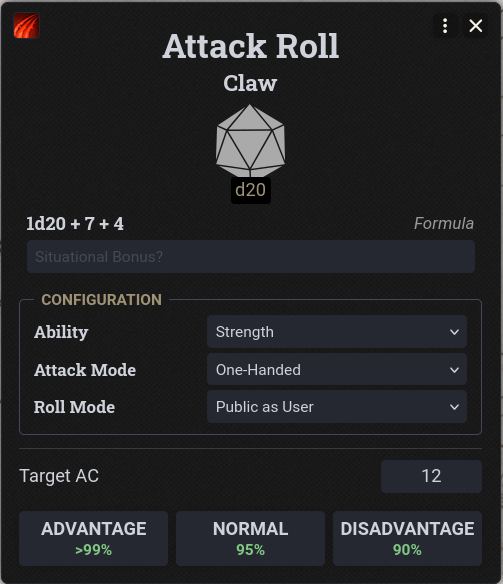
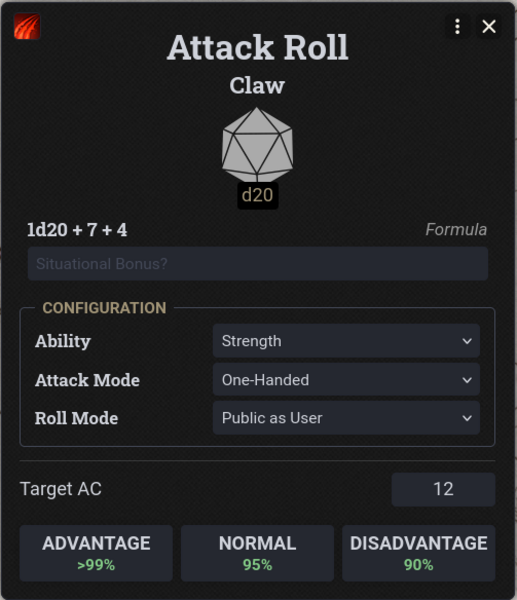
Update screenshots

diff --git a/styles/calculated-risk.css b/styles/calculated-risk.css
@@ -1,17 +1,17 @@
 :root,
 .theme-light {
-  --odds-on-likely: #2e7d32;
-  --odds-on-risky: #9a5b00;
-  --odds-on-longshot: #b3261e;
+  --calculated-risk-likely: #2e7d32;
+  --calculated-risk-risky: #9a5b00;
+  --calculated-risk-longshot: #b3261e;
 }
 
 .theme-dark {
-  --odds-on-likely: #81c784;
-  --odds-on-risky: #f2b84b;
-  --odds-on-longshot: #f28b82;
+  --calculated-risk-likely: #81c784;
+  --calculated-risk-risky: #f2b84b;
+  --calculated-risk-longshot: #f28b82;
 }
 
-.odds-on {
+.calculated-risk {
   display: flex;
   flex-direction: column;
   gap: 4px;
@@ -20,47 +20,47 @@
   border-top: 1px solid color-mix(in srgb, currentColor 18%, transparent);
 }
 
-.odds-on .odds-on-row {
+.calculated-risk .calculated-risk-row {
   display: flex;
   align-items: center;
   gap: 8px;
   min-height: 28px;
 }
 
-.odds-on .odds-on-label {
+.calculated-risk .calculated-risk-label {
   flex: 1;
   margin: 0;
 }
 
-.odds-on input.odds-on-target {
+.calculated-risk input.calculated-risk-target {
   flex: 0 0 4.5rem;
   width: 4.5rem;
   text-align: center;
 }
 
-.odds-on .odds-on-token,
-.odds-on .odds-on-manual {
+.calculated-risk .calculated-risk-token,
+.calculated-risk .calculated-risk-manual {
   display: none;
 }
 
-.odds-on.token-mode input.odds-on-target {
+.calculated-risk.token-mode input.calculated-risk-target {
   display: none;
 }
 
-.odds-on.token-mode .odds-on-token {
+.calculated-risk.token-mode .calculated-risk-token {
   display: flex;
   align-items: center;
   gap: 6px;
   min-width: 0;
 }
 
-.odds-on .odds-on-token-name {
+.calculated-risk .calculated-risk-token-name {
   overflow: hidden;
   text-overflow: ellipsis;
   white-space: nowrap;
 }
 
-.odds-on.token-mode .odds-on-manual {
+.calculated-risk.token-mode .calculated-risk-manual {
   display: inline-flex;
   flex: 0 0 auto;
   width: auto;
@@ -68,17 +68,17 @@
   padding: 0 6px;
 }
 
-.odds-on .odds-on-hint {
+.calculated-risk .calculated-risk-hint {
   margin: 0;
   font-size: var(--font-size-12, 12px);
   color: color-mix(in srgb, currentColor 72%, transparent);
 }
 
-.odds-on .odds-on-hint:empty {
+.calculated-risk .calculated-risk-hint:empty {
   display: none;
 }
 
-.dialog-buttons button.odds-on-has-chip {
+.dialog-buttons button.calculated-risk-has-chip {
   flex-direction: column;
   height: auto;
   min-height: var(--button-size, 28px);
@@ -87,13 +87,13 @@
   line-height: 1.25;
 }
 
-.odds-on-chip {
+.calculated-risk-chip {
   display: block;
   font-size: var(--font-size-11, 11px);
   font-weight: bold;
   font-variant-numeric: tabular-nums;
 }
 
-.odds-on-chip.likely { color: var(--odds-on-likely); }
-.odds-on-chip.risky { color: var(--odds-on-risky); }
-.odds-on-chip.longshot { color: var(--odds-on-longshot); }
+.calculated-risk-chip.likely { color: var(--calculated-risk-likely); }
+.calculated-risk-chip.risky { color: var(--calculated-risk-risky); }
+.calculated-risk-chip.longshot { color: var(--calculated-risk-longshot); }

diff --git a/README.md b/README.md
@@ -1,16 +1,16 @@
-# Target Odds
+# Calculated Risk
 
-Target Odds is a small Foundry VTT module for D&D 5e that shows your chance of success before you roll.
+Calculated Risk is a small Foundry VTT module for D&D 5e that shows your chance of success before you roll.
 
 Enter a DC or AC in the roll dialog and the Advantage, Normal, and Disadvantage buttons will show the odds for each option.
 
 ## Settings
 
-Settings are under **Configure Settings --> Target Odds**.
+Settings are under **Configure Settings --> Calculated Risk**.
 
 You can choose whether players see exact percentages, simple labels like **Likely** or **Risky**, or nothing at all.
 
-Target Odds can also pull AC from a targeted token. By default, players only see a probability bracket when this is enabled so the AC is harder to work out.
+Calculated Risk can also pull AC from a targeted token. By default, players only see a probability bracket when this is enabled so the AC is harder to work out.
 
 ## Installation
 
@@ -20,7 +20,7 @@ Target Odds can also pull AC from a targeted token. By default, players only see
 2. Click **Install Module**.
 3. Paste the module's manifest URL into the **Manifest URL** field:
 
-   `https://github.com/BubbleMoth/Target-Odds/releases/latest/download/module.json`
+   `https://github.com/BubbleMoth/Calculated-Risk/releases/latest/download/module.json`
 
 4. Click **Install**.
 5. Launch your world and go to **Game Settings → Manage Modules**.
@@ -28,7 +28,7 @@ Target Odds can also pull AC from a targeted token. By default, players only see
 
 
 ### Manual
-Copy the `target-odds` folder into your Foundry `Data/modules` folder, restart Foundry, and enable **Target Odds** under **Manage Modules**.
+Copy the `calculated-risk` folder into your Foundry `Data/modules` folder, restart Foundry, and enable **Calculated Risk** under **Manage Modules**.
 
 
 ## Compatibility
@@ -41,4 +41,4 @@ Copy the `target-odds` folder into your Foundry `Data/modules` folder, restart F
 
 Odds are calculated from the roll formula.
 
-Some unusual formulas are not supported. If Target Odds cannot calculate a roll accurately, it will show the odds as unavailable instead of guessing.
+Some unusual formulas are not supported. If Calculated Risk cannot calculate a roll accurately, it will show the odds as unavailable instead of guessing.
